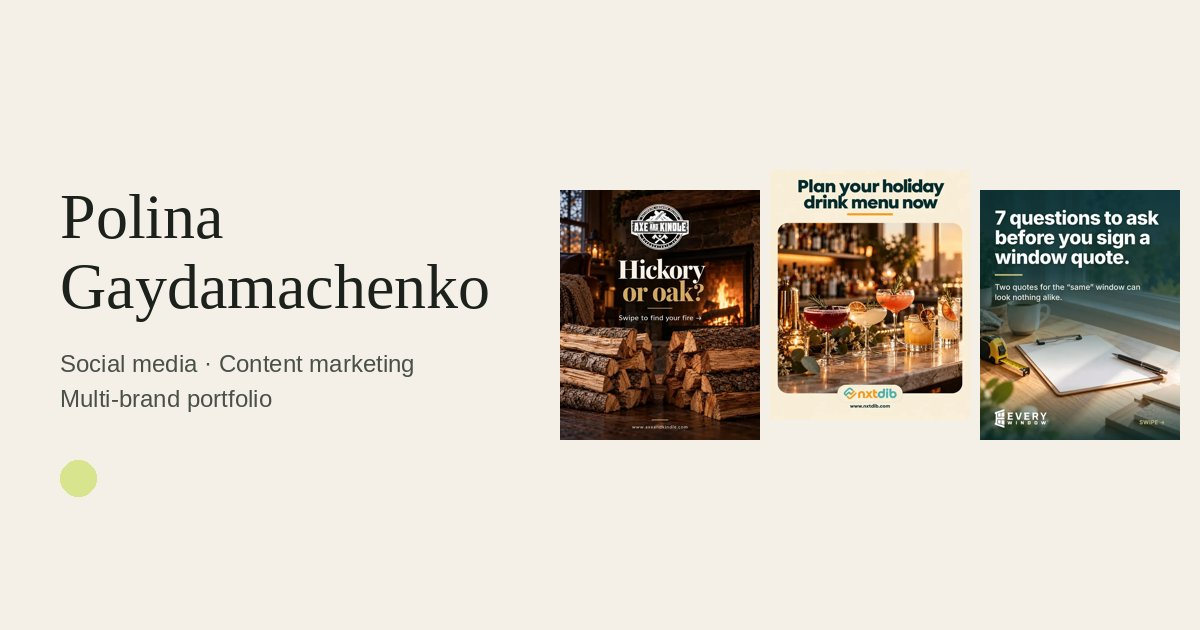
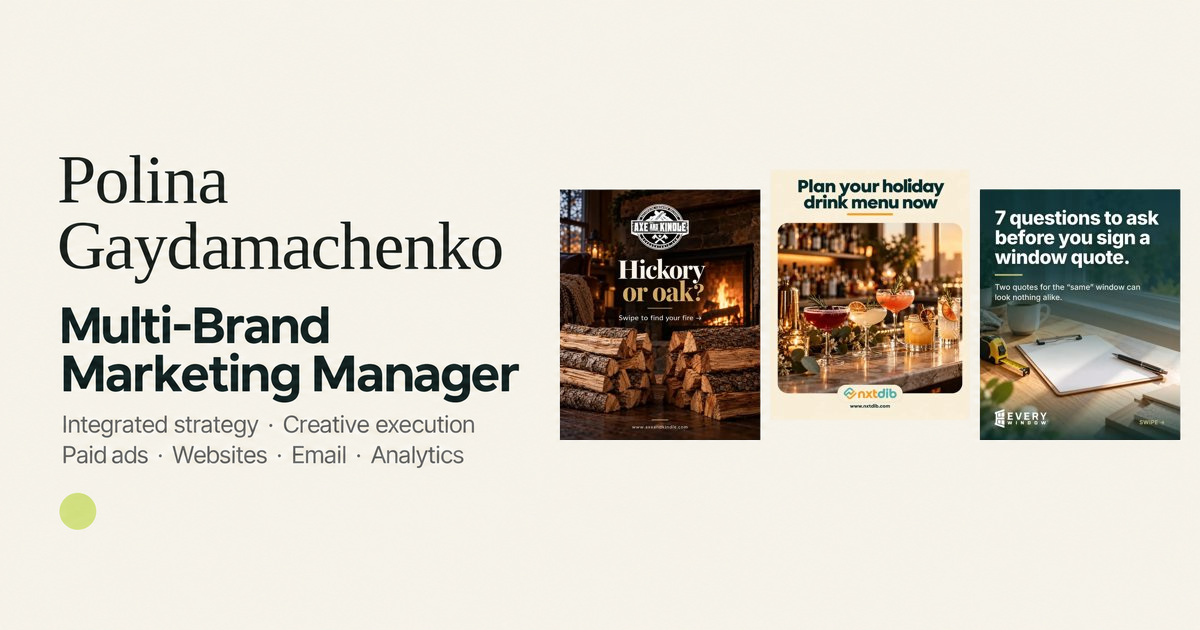
Align portfolio sharing image with multi-brand marketing management
Replace narrow social/content positioning with integrated strategy, creative execution, paid ads, websites, email and analytics. Preserve the three original campaign panels. Version OG and Twitter image references across pages and the generator; add dimensions and accessible image descriptions.

Changed region(s): [[0.0308, 0.2413, 0.4317, 0.8444]]

diff --git a/paid-advertising.html b/paid-advertising.html
@@ -12,8 +12,14 @@
 <meta property="og:title" content="Paid Advertising — Case Study | Polina Gaydamachenko">
 <meta property="og:description" content="Paid advertising case study: Polina Gaydamachenko&#x27;s Google Ads audits, campaign analysis and acquisition planning for Axe &amp; Kindle, Every Window and Levo Aero. Recommendations distinguished from measured results.">
 <meta property="og:url" content="https://polinayg.github.io/marketing-portfolio/paid-advertising.html">
-<meta property="og:image" content="https://polinayg.github.io/marketing-portfolio/assets/img/og-cover.jpg">
+<meta property="og:image" content="https://polinayg.github.io/marketing-portfolio/assets/img/og-cover.jpg?v=2026-10-29-manager">
+<meta property="og:image:type" content="image/jpeg">
+<meta property="og:image:width" content="1200">
+<meta property="og:image:height" content="630">
+<meta property="og:image:alt" content="Polina Gaydamachenko, Multi-Brand Marketing Manager. Integrated strategy, creative execution, paid ads, websites, email and analytics. Campaign examples from Axe &amp; Kindle, NxtDib and Every Window.">
 <meta name="twitter:card" content="summary_large_image">
+<meta name="twitter:image" content="https://polinayg.github.io/marketing-portfolio/assets/img/og-cover.jpg?v=2026-10-29-manager">
+<meta name="twitter:image:alt" content="Polina Gaydamachenko, Multi-Brand Marketing Manager. Integrated strategy, creative execution, paid ads, websites, email and analytics.">
 <meta name="theme-color" content="#f4f0e8">
 <link rel="icon" href="assets/img/favicon.svg" type="image/svg+xml">
 <link rel="preconnect" href="https://fonts.googleapis.com">

diff --git a/website-redesigns.html b/website-redesigns.html
@@ -12,8 +12,14 @@
 <meta property="og:title" content="Website Design &amp; Builds — Case Study | Polina Gaydamachenko">
 <meta property="og:description" content="Website portfolio by Polina Gaydamachenko: NxtDib built from scratch, plus before-and-after redesigns of homepages, product pages, an installation page and a blog page for Every Window and Axe &amp; Kindle.">
 <meta property="og:url" content="https://polinayg.github.io/marketing-portfolio/website-redesigns.html">
-<meta property="og:image" content="https://polinayg.github.io/marketing-portfolio/assets/img/og-cover.jpg">
+<meta property="og:image" content="https://polinayg.github.io/marketing-portfolio/assets/img/og-cover.jpg?v=2026-10-29-manager">
+<meta property="og:image:type" content="image/jpeg">
+<meta property="og:image:width" content="1200">
+<meta property="og:image:height" content="630">
+<meta property="og:image:alt" content="Polina Gaydamachenko, Multi-Brand Marketing Manager. Integrated strategy, creative execution, paid ads, websites, email and analytics. Campaign examples from Axe &amp; Kindle, NxtDib and Every Window.">
 <meta name="twitter:card" content="summary_large_image">
+<meta name="twitter:image" content="https://polinayg.github.io/marketing-portfolio/assets/img/og-cover.jpg?v=2026-10-29-manager">
+<meta name="twitter:image:alt" content="Polina Gaydamachenko, Multi-Brand Marketing Manager. Integrated strategy, creative execution, paid ads, websites, email and analytics.">
 <meta name="theme-color" content="#f4f0e8">
 <link rel="icon" href="assets/img/favicon.svg" type="image/svg+xml">
 <link rel="preconnect" href="https://fonts.googleapis.com">

diff --git a/analytics-reporting.html b/analytics-reporting.html
@@ -12,8 +12,14 @@
 <meta property="og:title" content="Analytics &amp; Reporting — Case Study | Polina Gaydamachenko">
 <meta property="og:description" content="Analytics case study: Polina Gaydamachenko&#x27;s cross-channel analysis for Axe &amp; Kindle and Every Window using GA4, Google Search Console, Instagram Insights and Drip, with strategic recommendations.">
 <meta property="og:url" content="https://polinayg.github.io/marketing-portfolio/analytics-reporting.html">
-<meta property="og:image" content="https://polinayg.github.io/marketing-portfolio/assets/img/og-cover.jpg">
+<meta property="og:image" content="https://polinayg.github.io/marketing-portfolio/assets/img/og-cover.jpg?v=2026-10-29-manager">
+<meta property="og:image:type" content="image/jpeg">
+<meta property="og:image:width" content="1200">
+<meta property="og:image:height" content="630">
+<meta property="og:image:alt" content="Polina Gaydamachenko, Multi-Brand Marketing Manager. Integrated strategy, creative execution, paid ads, websites, email and analytics. Campaign examples from Axe &amp; Kindle, NxtDib and Every Window.">
 <meta name="twitter:card" content="summary_large_image">
+<meta name="twitter:image" content="https://polinayg.github.io/marketing-portfolio/assets/img/og-cover.jpg?v=2026-10-29-manager">
+<meta name="twitter:image:alt" content="Polina Gaydamachenko, Multi-Brand Marketing Manager. Integrated strategy, creative execution, paid ads, websites, email and analytics.">
 <meta name="theme-color" content="#f4f0e8">
 <link rel="icon" href="assets/img/favicon.svg" type="image/svg+xml">
 <link rel="preconnect" href="https://fonts.googleapis.com">

diff --git a/axe-and-kindle.html b/axe-and-kindle.html
@@ -12,8 +12,14 @@
 <meta property="og:title" content="Axe &amp; Kindle — Case Study | Polina Gaydamachenko">
 <meta property="og:description" content="Axe &amp; Kindle case study: social and email content that sells kiln-dried firewood through fireside lifestyle, education and social proof. Original Canva creative and verified Sprout Social results.">
 <meta property="og:url" content="https://polinayg.github.io/marketing-portfolio/axe-and-kindle.html">
-<meta property="og:image" content="https://polinayg.github.io/marketing-portfolio/assets/img/og-cover.jpg">
+<meta property="og:image" content="https://polinayg.github.io/marketing-portfolio/assets/img/og-cover.jpg?v=2026-10-29-manager">
+<meta property="og:image:type" content="image/jpeg">
+<meta property="og:image:width" content="1200">
+<meta property="og:image:height" content="630">
+<meta property="og:image:alt" content="Polina Gaydamachenko, Multi-Brand Marketing Manager. Integrated strategy, creative execution, paid ads, websites, email and analytics. Campaign examples from Axe &amp; Kindle, NxtDib and Every Window.">
 <meta name="twitter:card" content="summary_large_image">
+<meta name="twitter:image" content="https://polinayg.github.io/marketing-portfolio/assets/img/og-cover.jpg?v=2026-10-29-manager">
+<meta name="twitter:image:alt" content="Polina Gaydamachenko, Multi-Brand Marketing Manager. Integrated strategy, creative execution, paid ads, websites, email and analytics.">
 <meta name="theme-color" content="#f4f0e8">
 <link rel="icon" href="assets/img/favicon.svg" type="image/svg+xml">
 <link rel="preconnect" href="https://fonts.googleapis.com">

diff --git a/email-marketing.html b/email-marketing.html
@@ -12,8 +12,14 @@
 <meta property="og:title" content="Email Marketing — Case Study | Polina Gaydamachenko">
 <meta property="og:description" content="Email marketing case study: Polina Gaydamachenko&#x27;s Axe &amp; Kindle email program in Drip — seasonal campaigns, seasonal header creative and historical email reporting.">
 <meta property="og:url" content="https://polinayg.github.io/marketing-portfolio/email-marketing.html">
-<meta property="og:image" content="https://polinayg.github.io/marketing-portfolio/assets/img/og-cover.jpg">
+<meta property="og:image" content="https://polinayg.github.io/marketing-portfolio/assets/img/og-cover.jpg?v=2026-10-29-manager">
+<meta property="og:image:type" content="image/jpeg">
+<meta property="og:image:width" content="1200">
+<meta property="og:image:height" content="630">
+<meta property="og:image:alt" content="Polina Gaydamachenko, Multi-Brand Marketing Manager. Integrated strategy, creative execution, paid ads, websites, email and analytics. Campaign examples from Axe &amp; Kindle, NxtDib and Every Window.">
 <meta name="twitter:card" content="summary_large_image">
+<meta name="twitter:image" content="https://polinayg.github.io/marketing-portfolio/assets/img/og-cover.jpg?v=2026-10-29-manager">
+<meta name="twitter:image:alt" content="Polina Gaydamachenko, Multi-Brand Marketing Manager. Integrated strategy, creative execution, paid ads, websites, email and analytics.">
 <meta name="theme-color" content="#f4f0e8">
 <link rel="icon" href="assets/img/favicon.svg" type="image/svg+xml">
 <link rel="preconnect" href="https://fonts.googleapis.com">

diff --git a/every-window.html b/every-window.html
@@ -12,8 +12,14 @@
 <meta property="og:title" content="Every Window — Case Study | Polina Gaydamachenko">
 <meta property="og:description" content="Every Window case study: a buyer-education social content system for an online custom vinyl window brand, designed to match the website and drive people to design and price online.">
 <meta property="og:url" content="https://polinayg.github.io/marketing-portfolio/every-window.html">
-<meta property="og:image" content="https://polinayg.github.io/marketing-portfolio/assets/img/og-cover.jpg">
+<meta property="og:image" content="https://polinayg.github.io/marketing-portfolio/assets/img/og-cover.jpg?v=2026-10-29-manager">
+<meta property="og:image:type" content="image/jpeg">
+<meta property="og:image:width" content="1200">
+<meta property="og:image:height" content="630">
+<meta property="og:image:alt" content="Polina Gaydamachenko, Multi-Brand Marketing Manager. Integrated strategy, creative execution, paid ads, websites, email and analytics. Campaign examples from Axe &amp; Kindle, NxtDib and Every Window.">
 <meta name="twitter:card" content="summary_large_image">
+<meta name="twitter:image" content="https://polinayg.github.io/marketing-portfolio/assets/img/og-cover.jpg?v=2026-10-29-manager">
+<meta name="twitter:image:alt" content="Polina Gaydamachenko, Multi-Brand Marketing Manager. Integrated strategy, creative execution, paid ads, websites, email and analytics.">
 <meta name="theme-color" content="#f4f0e8">
 <link rel="icon" href="assets/img/favicon.svg" type="image/svg+xml">
 <link rel="preconnect" href="https://fonts.googleapis.com">

diff --git a/equipio.html b/equipio.html
@@ -12,8 +12,14 @@
 <meta property="og:title" content="Equipio — Case Study | Polina Gaydamachenko">
 <meta property="og:description" content="Equipio case study: social content for a film and TV equipment rental marketplace, combining curated creator Reels with RFQ-focused educational content. Verified Sprout Social results.">
 <meta property="og:url" content="https://polinayg.github.io/marketing-portfolio/equipio.html">
-<meta property="og:image" content="https://polinayg.github.io/marketing-portfolio/assets/img/og-cover.jpg">
+<meta property="og:image" content="https://polinayg.github.io/marketing-portfolio/assets/img/og-cover.jpg?v=2026-10-29-manager">
+<meta property="og:image:type" content="image/jpeg">
+<meta property="og:image:width" content="1200">
+<meta property="og:image:height" content="630">
+<meta property="og:image:alt" content="Polina Gaydamachenko, Multi-Brand Marketing Manager. Integrated strategy, creative execution, paid ads, websites, email and analytics. Campaign examples from Axe &amp; Kindle, NxtDib and Every Window.">
 <meta name="twitter:card" content="summary_large_image">
+<meta name="twitter:image" content="https://polinayg.github.io/marketing-portfolio/assets/img/og-cover.jpg?v=2026-10-29-manager">
+<meta name="twitter:image:alt" content="Polina Gaydamachenko, Multi-Brand Marketing Manager. Integrated strategy, creative execution, paid ads, websites, email and analytics.">
 <meta name="theme-color" content="#f4f0e8">
 <link rel="icon" href="assets/img/favicon.svg" type="image/svg+xml">
 <link rel="preconnect" href="https://fonts.googleapis.com">

diff --git a/index.html b/index.html
@@ -12,8 +12,14 @@
 <meta property="og:title" content="Polina Gaydamachenko — Multi-Brand Marketing Manager">
 <meta property="og:description" content="Portfolio of Polina Gaydamachenko, Multi-Brand Marketing Manager: social and email campaigns, website builds and redesigns, paid advertising and analytics across five B2C and B2B brands.">
 <meta property="og:url" content="https://polinayg.github.io/marketing-portfolio/">
-<meta property="og:image" content="https://polinayg.github.io/marketing-portfolio/assets/img/og-cover.jpg">
+<meta property="og:image" content="https://polinayg.github.io/marketing-portfolio/assets/img/og-cover.jpg?v=2026-10-29-manager">
+<meta property="og:image:type" content="image/jpeg">
+<meta property="og:image:width" content="1200">
+<meta property="og:image:height" content="630">
+<meta property="og:image:alt" content="Polina Gaydamachenko, Multi-Brand Marketing Manager. Integrated strategy, creative execution, paid ads, websites, email and analytics. Campaign examples from Axe &amp; Kindle, NxtDib and Every Window.">
 <meta name="twitter:card" content="summary_large_image">
+<meta name="twitter:image" content="https://polinayg.github.io/marketing-portfolio/assets/img/og-cover.jpg?v=2026-10-29-manager">
+<meta name="twitter:image:alt" content="Polina Gaydamachenko, Multi-Brand Marketing Manager. Integrated strategy, creative execution, paid ads, websites, email and analytics.">
 <meta name="theme-color" content="#f4f0e8">
 <link rel="icon" href="assets/img/favicon.svg" type="image/svg+xml">
 <link rel="preconnect" href="https://fonts.googleapis.com">

diff --git a/nxtdib.html b/nxtdib.html
@@ -12,8 +12,14 @@
 <meta property="og:title" content="NxtDib — Case Study | Polina Gaydamachenko">
 <meta property="og:description" content="NxtDib case study: an editorial B2B content system for a wholesale non-alcoholic and functional beverage marketplace, with original carousels for Instagram and LinkedIn.">
 <meta property="og:url" content="https://polinayg.github.io/marketing-portfolio/nxtdib.html">
-<meta property="og:image" content="https://polinayg.github.io/marketing-portfolio/assets/img/og-cover.jpg">
+<meta property="og:image" content="https://polinayg.github.io/marketing-portfolio/assets/img/og-cover.jpg?v=2026-10-29-manager">
+<meta property="og:image:type" content="image/jpeg">
+<meta property="og:image:width" content="1200">
+<meta property="og:image:height" content="630">
+<meta property="og:image:alt" content="Polina Gaydamachenko, Multi-Brand Marketing Manager. Integrated strategy, creative execution, paid ads, websites, email and analytics. Campaign examples from Axe &amp; Kindle, NxtDib and Every Window.">
 <meta name="twitter:card" content="summary_large_image">
+<meta name="twitter:image" content="https://polinayg.github.io/marketing-portfolio/assets/img/og-cover.jpg?v=2026-10-29-manager">
+<meta name="twitter:image:alt" content="Polina Gaydamachenko, Multi-Brand Marketing Manager. Integrated strategy, creative execution, paid ads, websites, email and analytics.">
 <meta name="theme-color" content="#f4f0e8">
 <link rel="icon" href="assets/img/favicon.svg" type="image/svg+xml">
 <link rel="preconnect" href="https://fonts.googleapis.com">

diff --git a/gallery.html b/gallery.html
@@ -12,8 +12,14 @@
 <meta property="og:title" content="Creative Gallery | Polina Gaydamachenko">
 <meta property="og:description" content="Original social media carousels, posts, email headers and campaign graphics designed by Polina Gaydamachenko for five brands.">
 <meta property="og:url" content="https://polinayg.github.io/marketing-portfolio/gallery.html">
-<meta property="og:image" content="https://polinayg.github.io/marketing-portfolio/assets/img/og-cover.jpg">
+<meta property="og:image" content="https://polinayg.github.io/marketing-portfolio/assets/img/og-cover.jpg?v=2026-10-29-manager">
+<meta property="og:image:type" content="image/jpeg">
+<meta property="og:image:width" content="1200">
+<meta property="og:image:height" content="630">
+<meta property="og:image:alt" content="Polina Gaydamachenko, Multi-Brand Marketing Manager. Integrated strategy, creative execution, paid ads, websites, email and analytics. Campaign examples from Axe &amp; Kindle, NxtDib and Every Window.">
 <meta name="twitter:card" content="summary_large_image">
+<meta name="twitter:image" content="https://polinayg.github.io/marketing-portfolio/assets/img/og-cover.jpg?v=2026-10-29-manager">
+<meta name="twitter:image:alt" content="Polina Gaydamachenko, Multi-Brand Marketing Manager. Integrated strategy, creative execution, paid ads, websites, email and analytics.">
 <meta name="theme-color" content="#f4f0e8">
 <link rel="icon" href="assets/img/favicon.svg" type="image/svg+xml">
 <link rel="preconnect" href="https://fonts.googleapis.com">

diff --git a/levo-aero.html b/levo-aero.html
@@ -12,8 +12,14 @@
 <meta property="og:title" content="Levo Aero — Case Study | Polina Gaydamachenko">
 <meta property="og:description" content="Levo Aero case study: Enterprise pricing landing pages and paid-social creative for a private aviation marketplace.">
 <meta property="og:url" content="https://polinayg.github.io/marketing-portfolio/levo-aero.html">
-<meta property="og:image" content="https://polinayg.github.io/marketing-portfolio/assets/img/og-cover.jpg">
+<meta property="og:image" content="https://polinayg.github.io/marketing-portfolio/assets/img/og-cover.jpg?v=2026-10-29-manager">
+<meta property="og:image:type" content="image/jpeg">
+<meta property="og:image:width" content="1200">
+<meta property="og:image:height" content="630">
+<meta property="og:image:alt" content="Polina Gaydamachenko, Multi-Brand Marketing Manager. Integrated strategy, creative execution, paid ads, websites, email and analytics. Campaign examples from Axe &amp; Kindle, NxtDib and Every Window.">
 <meta name="twitter:card" content="summary_large_image">
+<meta name="twitter:image" content="https://polinayg.github.io/marketing-portfolio/assets/img/og-cover.jpg?v=2026-10-29-manager">
+<meta name="twitter:image:alt" content="Polina Gaydamachenko, Multi-Brand Marketing Manager. Integrated strategy, creative execution, paid ads, websites, email and analytics.">
 <meta name="theme-color" content="#f4f0e8">
 <link rel="icon" href="assets/img/favicon.svg" type="image/svg+xml">
 <link rel="preconnect" href="https://fonts.googleapis.com">

diff --git a/pdf-viewer.html b/pdf-viewer.html
@@ -12,8 +12,14 @@
 <meta property="og:title" content="Original website capture PDF | Polina Gaydamachenko">
 <meta property="og:description" content="Open or download an original website redesign capture PDF.">
 <meta property="og:url" content="https://polinayg.github.io/marketing-portfolio/pdf-viewer.html">
-<meta property="og:image" content="https://polinayg.github.io/marketing-portfolio/assets/img/og-cover.jpg">
+<meta property="og:image" content="https://polinayg.github.io/marketing-portfolio/assets/img/og-cover.jpg?v=2026-10-29-manager">
+<meta property="og:image:type" content="image/jpeg">
+<meta property="og:image:width" content="1200">
+<meta property="og:image:height" content="630">
+<meta property="og:image:alt" content="Polina Gaydamachenko, Multi-Brand Marketing Manager. Integrated strategy, creative execution, paid ads, websites, email and analytics. Campaign examples from Axe &amp; Kindle, NxtDib and Every Window.">
 <meta name="twitter:card" content="summary_large_image">
+<meta name="twitter:image" content="https://polinayg.github.io/marketing-portfolio/assets/img/og-cover.jpg?v=2026-10-29-manager">
+<meta name="twitter:image:alt" content="Polina Gaydamachenko, Multi-Brand Marketing Manager. Integrated strategy, creative execution, paid ads, websites, email and analytics.">
 <meta name="theme-color" content="#f4f0e8">
 <link rel="icon" href="assets/img/favicon.svg" type="image/svg+xml">
 <link rel="preconnect" href="https://fonts.googleapis.com">
